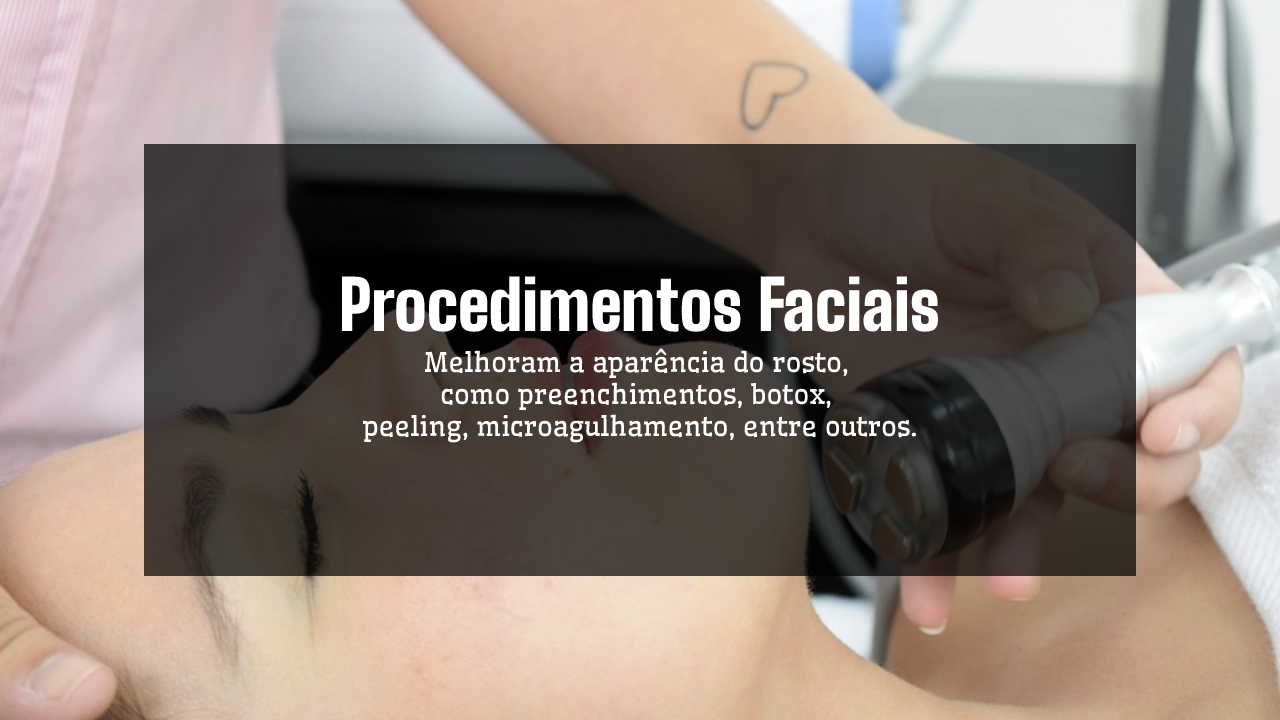
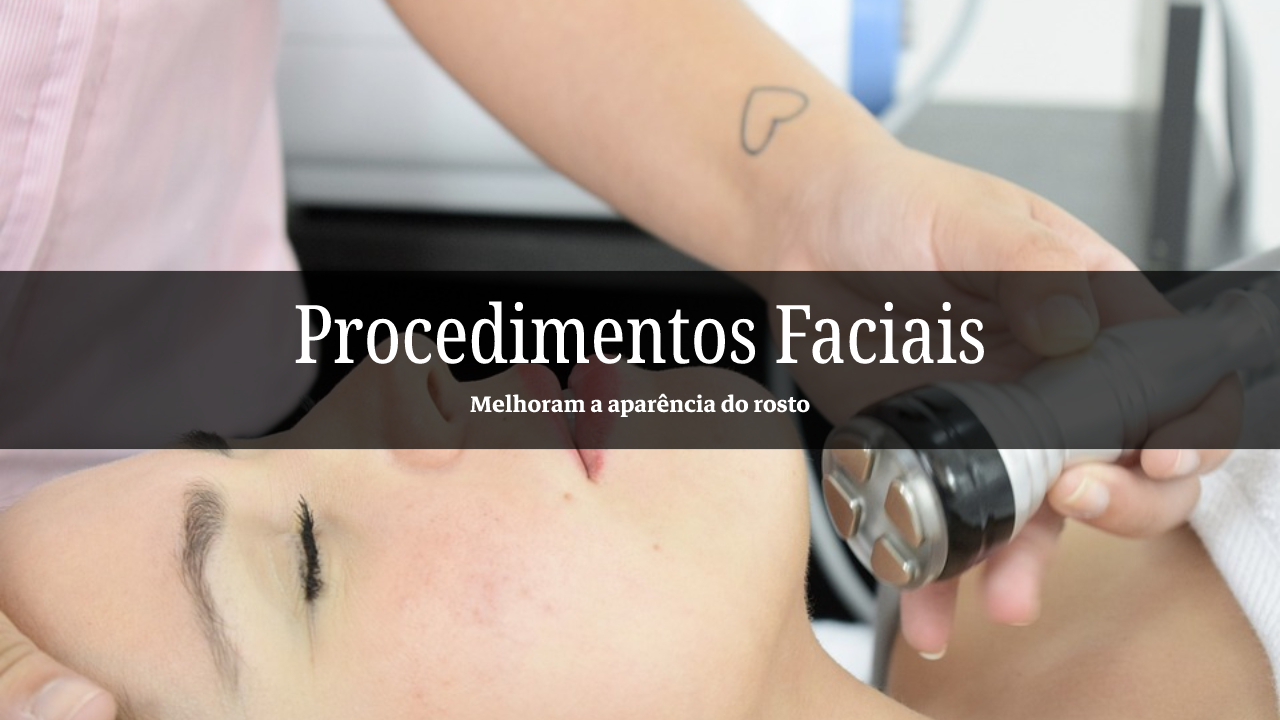
Inserção de slides e ajuste de páginas

diff --git a/index.html b/index.html
@@ -21,6 +21,23 @@
 <a class="botaoSup" href="procedimentos.html">PROCEDIMENTOS</a>
 <a class="botaoSup" href="contato.html">CONTATO</a>
 </nav> 
+<br><br>
+<section class="secao5">
+    <div class="slideshow-container">
+        <div class="mySlides fade">
+          <img src="img/slide1.jpg">
+        </div>
+      
+        <div class="mySlides fade">
+          <img src="img/slide2.jpg">
+        </div>
+      
+        <div class="mySlides fade">
+          <img src="img/slide3.jpg">
+        </div>
+      </div>
+</section>
+<br><br>
 <section class="secao4">
     <h3>Bem-vinda!</h3>
     <p class="paragWelcome">Se você está procurando por um <u>tratamento personalizado</u> e <u>focado em resultados</u>, você está no lugar certo. Nosso principal objetivo é <u>garantir que nossos clientes se sintam confortáveis e confiantes</u>. Com anos de experiência e uma profissional especialista em estética avançada, estamos prontos para ajudá-la a <u>atingir seus objetivos de beleza</u>.</p>
@@ -93,4 +110,5 @@
     </nav>
 <br>
 </body>
+<script src="script.js"></script>
 </html>

diff --git a/css/index.css b/css/index.css
@@ -184,3 +184,38 @@ footer {
     background-color: rgb(255, 255, 255, 0.250);
     border: solid 1px rgba(0, 0, 0, 0.050);
 }
+.slideshow-container {
+    max-width: 800px;
+    position: relative;
+    margin: auto;
+}
+.mySlides {
+    display: none;
+    width: 50%;
+    height: auto;
+    object-fit: cover;
+}
+.fade {
+    animation-name: fade;
+    animation-duration: 10s;
+    animation-timing-function: ease-in-out;
+    animation-iteration-count: infinite;
+}
+@keyframes fade {
+    0% {
+    opacity: 0;
+    }
+    25% {
+    opacity: 1;
+    }
+    75% {
+    opacity: 1;
+    }
+    100% {
+    opacity: 0;
+    }
+}
+.secao5 img{
+    width: 200%;
+    border-radius: 50px;
+}

diff --git a/script.js b/script.js
@@ -1,0 +1,16 @@
+var slideIndex = 0;
+showSlides();
+
+function showSlides() {
+  var i;
+  var slides = document.getElementsByClassName("mySlides");
+  for (i = 0; i < slides.length; i++) {
+    slides[i].style.display = "none";
+  }
+  slideIndex++;
+  if (slideIndex > slides.length) {
+    slideIndex = 1
+  }
+  slides[slideIndex - 1].style.display = "block";
+  setTimeout(showSlides, 10000); // Change image every 5 seconds
+}

diff --git a/contato.html b/contato.html
@@ -42,5 +42,6 @@
     <br><br><br><br>
     <a  class="botaoInf" href="index.html">INÍCIO</a>
     <a class="botaoInf" href="procedimentos.html">PROCEDIMENTOS</a>
-</body> 
+<br><br><br>
+</body>
 </html>
